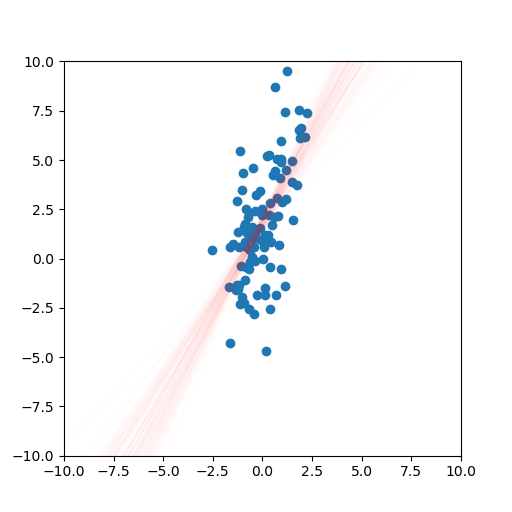
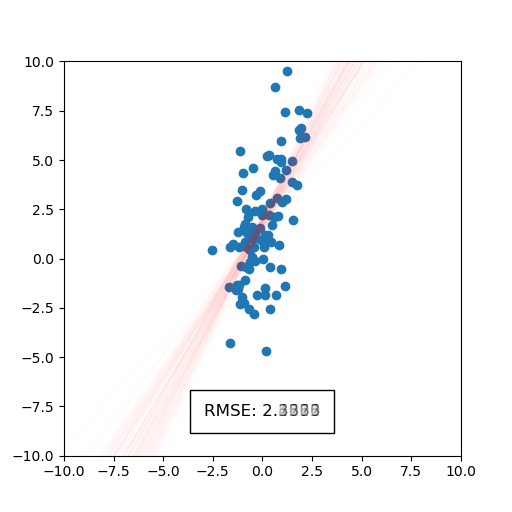
Update examples

Changed region(s): [[0.3438, 0.75, 0.6562, 0.875]]

diff --git a/README.md b/README.md
@@ -42,6 +42,16 @@ def make_linear_regression(data_subset, data_full, ax):
     lr.fit(data_subset[:, 0].reshape(-1, 1), data_subset[:, 1])
     xs = np.linspace(-10, 10, 1000)
     ax.plot(xs, lr.predict(xs.reshape(-1, 1)), c='r')
+    
+    # Show root mean squared error (RMSE) with a text box
+    mse = np.sqrt(np.mean(np.square(data_subset[:, 1] - lr.predict(data_subset[:, 0].reshape(-1, 1)))))
+    ax.text(
+        0, -8,
+        f'RMSE: {mse:.4f}',
+        fontsize=12,
+        ha='center',
+        bbox=dict(facecolor='none', edgecolor='black', pad=10.0)
+    )
 
 
 if __name__ == '__main__':
@@ -56,8 +66,8 @@ if __name__ == '__main__':
     bootplot(
         make_linear_regression,
         dataset,
-        output_image_path='bootstrapped_linear_regression.png',
-        output_animation_path='bootstrapped_linear_regression.gif',
+        output_image_path='demo_image.png',
+        output_animation_path='demo_animation.gif',
         xlim=(-10, 10),
         ylim=(-10, 10),
         verbose=True
